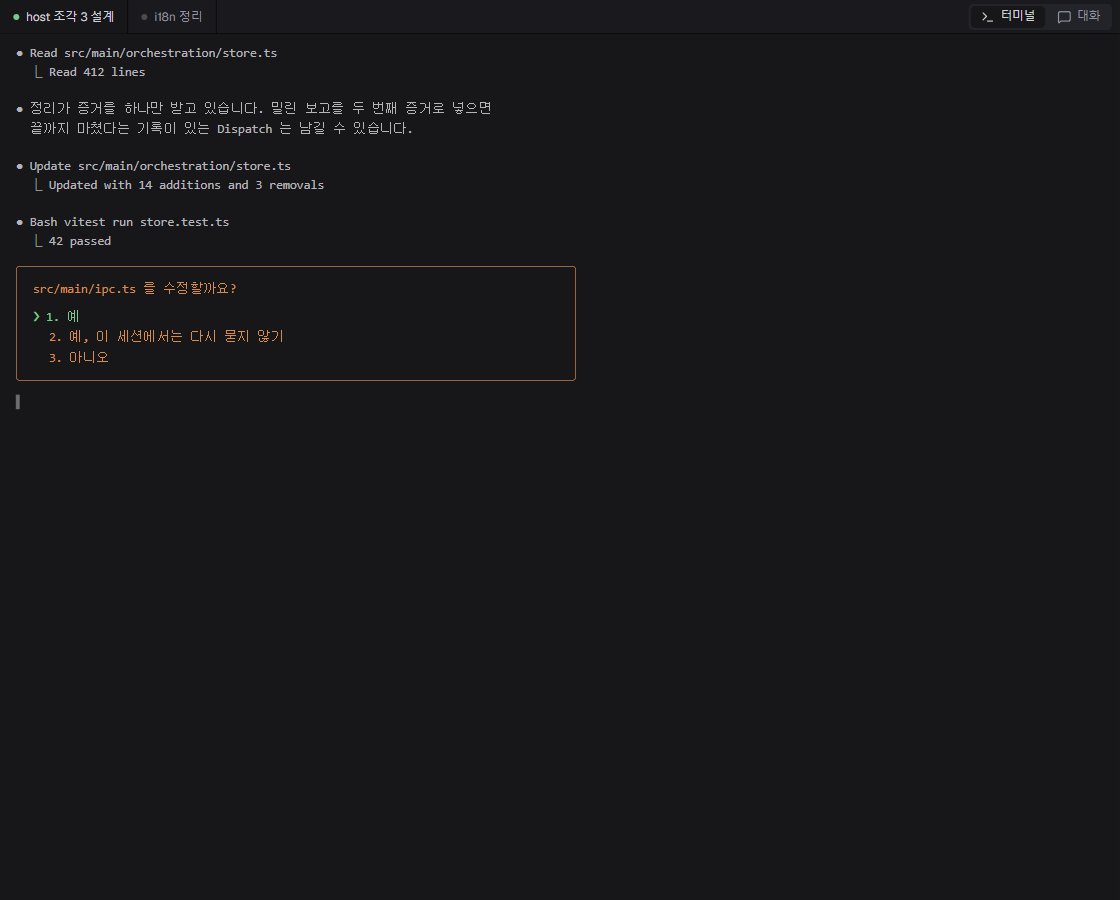
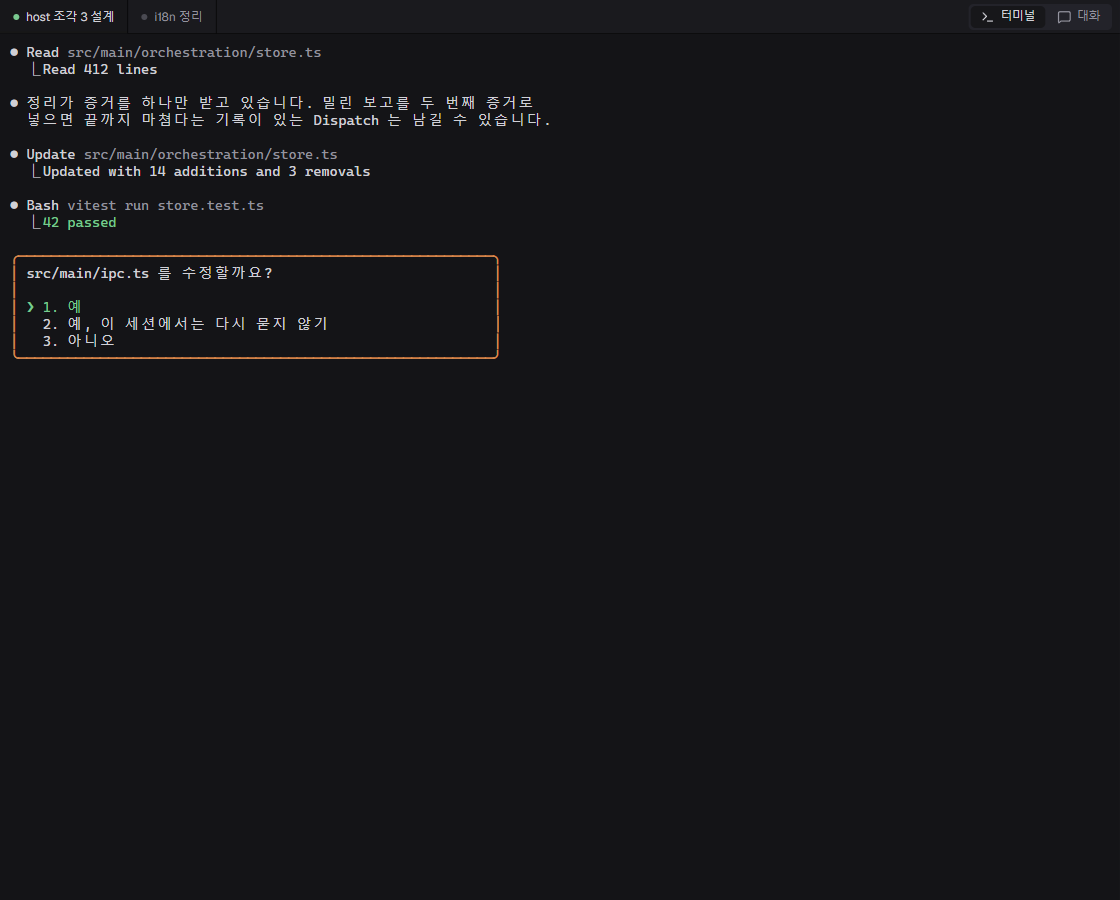
design(conversation): the terminal side is the terminal we already have
The previous board redrew it. The prompt's box-drawing frame lined up
badly against Hangul in a browser font, and rather than read that as a
font problem I replaced the frame with CSS, which changed a pane that is
not changing.

It is xterm again, with the options the app actually passes: the same
font chain down to Malgun Gothic for Hangul, fontSize 14, the theme's
termBg and accent cursor. Hangul is double-width there, so the frame
lines up on its own.

Changed region(s): [[0.0, 0.0311, 0.4688, 0.4044]]

diff --git a/.design/Aui.dc.html b/.design/Aui.dc.html
@@ -46,7 +46,7 @@
       <div class="shot" style="flex: 1; min-height: 0; border-color: rgba(214,139,79,.45);"><img src="aui-pending.png" alt="a decision waiting"></div>
     </div>
     <div style="min-height: 0; display: flex; flex-direction: column;">
-      <div class="lab">넘어간 터미널 <em>· 선택지는 여기서만 그린다</em></div>
+      <div class="lab">넘어간 터미널 <em>· 지금 쓰는 xterm 그대로</em></div>
       <div class="shot" style="flex: 1; min-height: 0;"><img src="aui-term.png" alt="the terminal side of the toggle"></div>
     </div>
   </div>
@@ -66,6 +66,7 @@
         <li>배너는 선택지를 다시 그리지 않습니다. 기다리는 중이라고만 말하고 터미널로 보냅니다.</li>
         <li>기다리는 동안 입력창이 잠깁니다. 터미널에서 답해야 이어집니다.</li>
         <li>대화를 보고 있어도 터미널 탭에 주황 점이 떠서 놓치지 않습니다.</li>
+        <li><strong style="color: #c4c4cc; font-weight: 500;">터미널은 손대지 않습니다.</strong> 시안의 터미널도 같은 xterm 에 같은 폰트 사슬과 같은 테마를 넣어 띄운 것입니다.</li>
       </ul>
     </div>
     <div>
